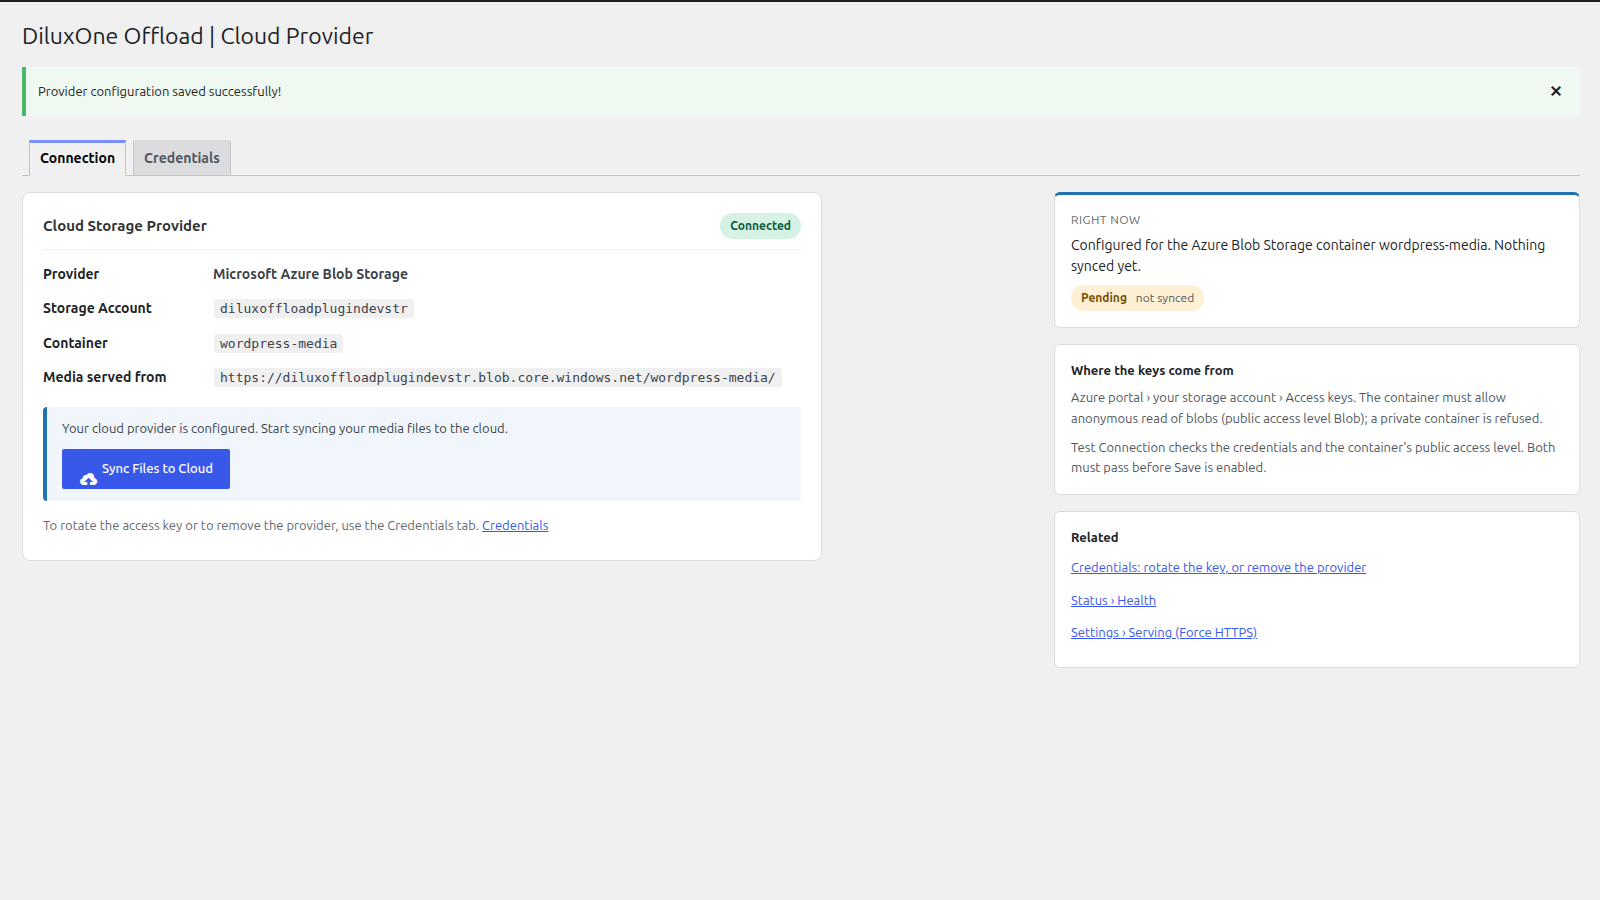
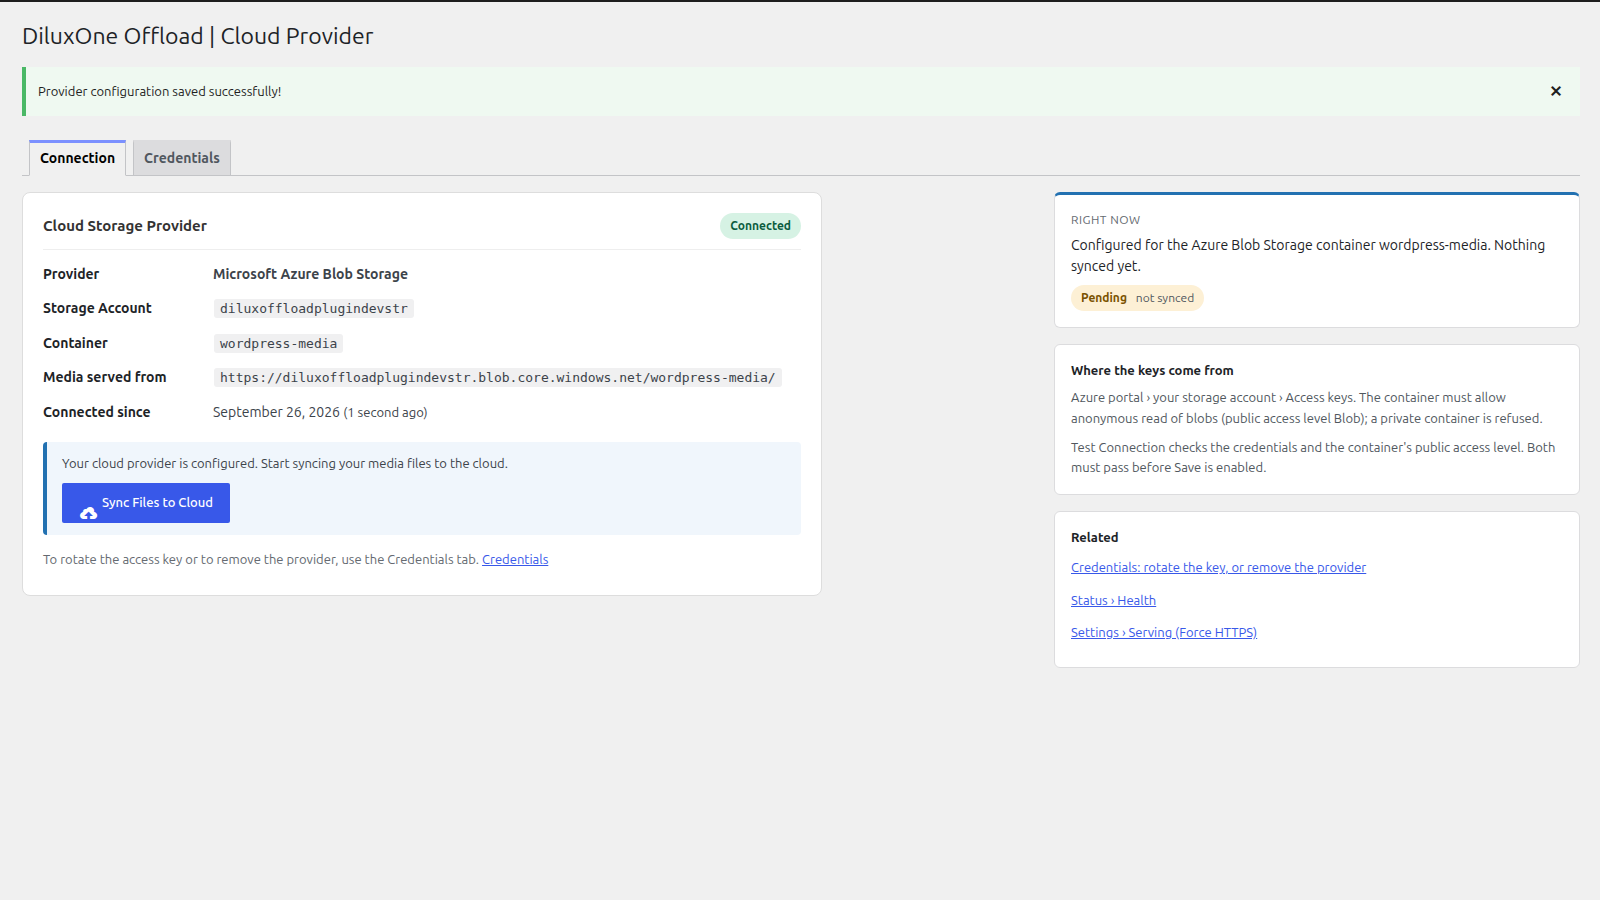
test(admin): the figures, the skipped list, the timestamps and Check now, end to end (#13)
## 📝 What changes

The end-to-end coverage the previous pull request (#12) should have carried: everything the screens now show is driven in a browser, with no cloud account, against a real container on a single site, and against a real container on a network. No product code changes.

- **Mock suite (`tests/E2E/status-health.spec.ts`, new):** with no provider, Status › Health says there is nothing to check and offers no button, and the Sync, Offloading and Disconnect tabs ask for a provider and show no figures. With a provider that cannot be reached (stored through WP-CLI: a storage account that does not exist), **Check now** runs, reports Unhealthy, stamps "just now", counts the failure, and the table agrees after a reload; every screen then carries the banner that says why. `tests/E2E/helpers/wp.ts` puts the site in that state and back.
[…]

Changed region(s): [[0.0312, 0.4356, 0.3438, 0.5911], [0.3125, 0.6222, 0.3438, 0.6533]]

diff --git a/tests/E2E-real/single-site.spec.ts b/tests/E2E-real/single-site.spec.ts
@@ -210,6 +210,41 @@ test.describe.serial( 'single site journey', () => {
 		await expect( page.locator( '#connection-health' ) ).toContainText( /Healthy/ );
 	} );
 
+	test( 'the screens show what is where: the figures, the skipped file, the timestamps, Check now', async ( { page } ) => {
+		const inCloud = ( await listKeys( run, 'uploads/' ) ).length;
+		// Sync: everything synced, every copy still here, nothing uploaded through the site yet.
+		await ui.goTab( page, base, 'sync' );
+		expect( await ui.bignumCount( page, 'Synced' ) ).toBe( inCloud );
+		expect( await ui.bignumCount( page, 'Local copies left' ) ).toBe( inCloud );
+		expect( await ui.bignumCount( page, 'Not on this server' ) ).toBe( 0 );
+		expect( ( await ui.bignum( page, 'Last upload' ) ).value ).toBe( 'none yet' );
+		await expect( page.locator( '.diluxone-offload-bar-head' ) ).toContainText( '100%' );
+		// The empty file is the one thing the scan left out, and the screen says so by name.
+		await expect( page.locator( '.wrap.diluxone-offload-admin' ) ).toContainText( '1 file was left out by the last scan' );
+		const skipped = page.locator( 'details.diluxone-offload-skipped' );
+		await skipped.locator( 'summary' ).click();
+		await expect( skipped ).toContainText( 'Empty files' );
+		await expect( skipped.locator( 'li code' ) ).toHaveText( [ /\/empty-0b\.txt$/ ] );
+		// Offloading: served from the account, every byte still has a copy here, since when.
+		await ui.goTab( page, base, 'offloading' );
+		expect( ( await ui.bignum( page, 'Served from' ) ).value ).toBe( `${ run.account }.blob.core.windows.net` );
+		expect( await ui.bignumCount( page, 'Local copies' ) ).toBe( inCloud );
+		expect( await ui.bignumCount( page, 'Not on this server' ) ).toBe( 0 );
+		expect( ( await ui.bignum( page, 'Offloading since' ) ).value ).not.toBe( '—' );
+		await expect( page.locator( '.diluxone-offload-bar-head' ) ).toContainText( '0% cloud only' );
+		// Disconnect: nothing to bring back yet.
+		await ui.goTab( page, base, 'disconnect' );
+		expect( await ui.bignumCount( page, 'Files to bring back' ) ).toBe( 0 );
+		// Connection: since when.
+		await ui.goTab( page, base, 'connection' );
+		await expect( page.locator( '#provider-info' ) ).toContainText( 'Connected since' );
+		// Health: Check now asks the provider and answers on the spot.
+		await ui.goTab( page, base, 'health' );
+		expect( await ui.checkHealthNow( page ) ).toMatch( /Healthy/ );
+		await expect( page.locator( '#health-last-success' ) ).toHaveText( /just now/ );
+		await expect( page.locator( '#health-failures strong' ) ).toHaveText( '0' );
+	} );
+
 	test( 'a Media Library upload lands in the container with its thumbnails and a public URL', async ( { page } ) => {
 		const source = path.join( FIXTURE_DIR, 'small-300k.png' );
 		const upload = path.join( FIXTURE_DIR, 'ui-upload.png' );
@@ -236,6 +271,16 @@ test.describe.serial( 'single site journey', () => {
 		const front = await http.get( `${ base }/?attachment_id=${ uiUploadId }` );
 		expect( await front.text(), 'the front end links the cloud URL' ).toContain( url );
 		await http.dispose();
+
+		// The Sync tab knows about it without a scan: the upload and its
+		// thumbnails are synced, cloud only, and the last of them is "Last upload".
+		const inCloud = ( await listKeys( run, 'uploads/' ) ).length;
+		await ui.goTab( page, base, 'sync' );
+		expect( await ui.bignumCount( page, 'Synced' ) ).toBe( inCloud );
+		expect( await ui.bignumCount( page, 'Not on this server' ) ).toBe( 1 + sizes.length );
+		const last = await ui.bignum( page, 'Last upload' );
+		expect( last.value ).toMatch( /ago|just now/ );
+		expect( last.detail ).toMatch( /^ui-upload.*\.png · / );
 	} );
 
 	test( 'deleting the local copies frees the disk and the site keeps serving', async ( { page } ) => {
@@ -248,6 +293,18 @@ test.describe.serial( 'single site journey', () => {
 		expect( ( await http.head( attachmentUrl( site, uiUploadId ) ) ).status() ).toBe( 200 );
 		await http.dispose();
 		expect( pluginState( site ) ).toBe( 'offloading_active' );
+
+		// The figures follow: nothing left here, everything cloud only, and
+		// Disconnect says what it would bring back and that the disk can take it.
+		const inCloud = ( await listKeys( run, 'uploads/' ) ).length;
+		await ui.goTab( page, base, 'offloading' );
+		expect( await ui.bignumCount( page, 'Local copies' ) ).toBe( 0 );
+		expect( await ui.bignumCount( page, 'Not on this server' ) ).toBe( inCloud );
+		await expect( page.locator( '.diluxone-offload-bar-head' ) ).toContainText( '100% cloud only' );
+		await ui.goTab( page, base, 'disconnect' );
+		expect( await ui.bignumCount( page, 'Files to bring back' ) ).toBe( inCloud );
+		expect( ( await ui.bignum( page, 'Size to bring back' ) ).value ).not.toMatch( /^0 B$/ );
+		expect( ( await ui.bignum( page, 'Free disk here' ) ).detail ).toBe( 'enough for what is in the cloud' );
 	} );
 
 	test( 'a download can be cancelled and resumed', async ( { page } ) => {
@@ -277,6 +334,10 @@ test.describe.serial( 'single site journey', () => {
 			expect( md5Inside( site, `${ uploadsDir }/${ rel }` ), `${ rel } bytes` ).toBe( await blobMd5( run, key ) );
 		}
 		expect( local.filter( ( f ) => f.endsWith( '.dlxpart' ) ).length ).toBe( 0 );
+		// Every row has its copy back: the Sync tab counts no file as cloud only.
+		expect( await ui.bignumCount( page, 'Synced' ) ).toBe( keys.length );
+		expect( await ui.bignumCount( page, 'Local copies left' ) ).toBe( keys.length );
+		expect( await ui.bignumCount( page, 'Not on this server' ) ).toBe( 0 );
 	} );
 
 	test( 'the access key can be rotated on the Credentials tab', async ( { page } ) => {

diff --git a/tests/E2E/status-health.spec.ts b/tests/E2E/status-health.spec.ts
@@ -1,0 +1,55 @@
+import { test, expect } from '@playwright/test';
+import { configureUnreachableProvider, resetPlugin } from './helpers/wp';
+
+/**
+ * Status › Health and the data screens without a cloud account: what they
+ * say when nothing is connected, and what "Check now" does when the
+ * provider cannot be reached. The success path runs in the real suite.
+ */
+const ADMIN = '/wp-admin/admin.php';
+const HEALTH = `${ ADMIN }?page=diluxone-offload-status&tab=health`;
+
+test.describe( 'Status › Health without a provider', () => {
+	test( 'says there is nothing to check and offers no button', async ( { page } ) => {
+		await page.goto( HEALTH );
+		await expect( page.locator( '#connection-health' ) ).toContainText( 'No provider is connected, so there is no connection to check.' );
+		await expect( page.locator( '#check-health-now' ) ).toHaveCount( 0 );
+	} );
+
+	test( 'the Sync, Offloading and Disconnect tabs ask for a provider first', async ( { page } ) => {
+		for ( const tab of [ 'sync', 'offloading', 'disconnect' ] ) {
+			await page.goto( `${ ADMIN }?page=diluxone-offload-sync&tab=${ tab }` );
+			await expect( page.locator( '.wrap.diluxone-offload-admin' ) ).toContainText( 'Connect a cloud provider in Cloud Provider › Connection first.' );
+			await expect( page.locator( '.diluxone-offload-bignum' ) ).toHaveCount( 0 );
+		}
+	} );
+} );
+
+test.describe.serial( 'Status › Health with a provider that cannot be reached', () => {
+	test.beforeAll( () => configureUnreachableProvider() );
+	test.afterAll( () => resetPlugin() );
+
+	test( 'Check now runs the check, reports Unhealthy and stamps the time', async ( { page } ) => {
+		await page.goto( HEALTH );
+		const button = page.locator( '#check-health-now' );
+		await expect( button ).toBeVisible();
+		await button.click();
+		// The button is disabled while the request runs, then comes back.
+		await expect( button ).toBeEnabled( { timeout: 60_000 } );
+		await expect( page.locator( '#health-status' ) ).toContainText( /Unhealthy/ );
+		await expect( page.locator( '#health-last-check' ) ).toHaveText( /just now/ );
+		await expect( page.locator( '#health-failures strong' ) ).toHaveText( /^[1-9]\d*$/ );
+		// The table on a fresh load agrees with what the button wrote.
+		await page.reload();
+		await expect( page.locator( '#health-status' ) ).toContainText( /Unhealthy/ );
+		await expect( page.locator( '#health-last-check' ) ).toContainText( /ago/ );
+	} );
+
+	test( 'after a failed check every screen carries the banner that says why', async ( { page } ) => {
+		for ( const url of [ `${ ADMIN }?page=diluxone-offload-provider&tab=connection`, `${ ADMIN }?page=diluxone-offload`, `${ ADMIN }?page=diluxone-offload-sync&tab=sync` ] ) {
+			await page.goto( url );
+			const wrap = page.locator( '.wrap.diluxone-offload-admin' );
+			await expect( wrap ).toContainText( 'Cloud Connection Error' );
+		}
+	} );
+} );

diff --git a/tests/E2E-real/multisite.spec.ts b/tests/E2E-real/multisite.spec.ts
@@ -81,6 +81,18 @@ test.describe.serial( 'multisite journey', () => {
 		expect( await ui.refreshStats( page ) ).toBe( keys.filter( ( k ) => ! k.startsWith( 'uploads/sites/' ) ).length );
 		await ui.goTab( page, other, 'overview' );
 		expect( await ui.refreshStats( page ) ).toBe( keys.filter( ( k ) => k.startsWith( `uploads/sites/${ blogId }/` ) ).length );
+
+		// The figures are per site too, and so is the health check.
+		const mainCount = keys.filter( ( k ) => ! k.startsWith( 'uploads/sites/' ) ).length;
+		const otherCount = keys.filter( ( k ) => k.startsWith( `uploads/sites/${ blogId }/` ) ).length;
+		for ( const [ home, count ] of [ [ base, mainCount ], [ other, otherCount ] ] as [ string, number ][] ) {
+			await ui.goTab( page, home, 'sync' );
+			expect( await ui.bignumCount( page, 'Synced' ) ).toBe( count );
+			expect( await ui.bignumCount( page, 'Local copies left' ) ).toBe( count );
+			expect( await ui.bignumCount( page, 'Not on this server' ) ).toBe( 0 );
+			await ui.goTab( page, home, 'health' );
+			expect( await ui.checkHealthNow( page ) ).toMatch( /Healthy/ );
+		}
 	} );
 
 	test( 'a Media Library upload on the other site lands under its prefix', async ( { page } ) => {
@@ -100,6 +112,17 @@ test.describe.serial( 'multisite journey', () => {
 		await ui.deleteLocalFiles( page );
 		expect( filesUnder( site, otherUploads ).length ).toBe( 0 );
 		expect( filesUnder( site, mainUploads ).filter( ( f ) => ! f.startsWith( 'sites/' ) ) ).toEqual( mainOwnBefore );
+		// Each site's figures describe that site only.
+		const otherInCloud = ( await listKeys( run, `uploads/sites/${ blogId }/` ) ).length;
+		expect( await ui.bignumCount( page, 'Local copies' ) ).toBe( 0 );
+		expect( await ui.bignumCount( page, 'Not on this server' ) ).toBe( otherInCloud );
+		await ui.goTab( page, other, 'disconnect' );
+		expect( await ui.bignumCount( page, 'Files to bring back' ) ).toBe( otherInCloud );
+		// The main site's figures count its tracked rows, which are its keys in the container.
+		const mainInCloud = ( await listKeys( run, 'uploads/' ) ).filter( ( k ) => ! k.startsWith( 'uploads/sites/' ) ).length;
+		await ui.goTab( page, base, 'offloading' );
+		expect( await ui.bignumCount( page, 'Local copies' ) ).toBe( mainInCloud );
+		expect( await ui.bignumCount( page, 'Not on this server' ) ).toBe( 0 );
 
 		// And the other way round: Delete Local Files on the main site leaves the other site's directory alone.
 		await ui.goTab( page, other, 'disconnect' );

diff --git a/tests/E2E-real/helpers/plugin.ts b/tests/E2E-real/helpers/plugin.ts
@@ -292,3 +292,31 @@ export async function uploadThroughMediaLibrary( page: Page, base: string, file:
 	const id = await first.getAttribute( 'id' );
 	return Number( ( id ?? '' ).replace( /\D/g, '' ) );
 }
+
+/**
+ * One of the figures a data screen shows (Sync, Offloading, Disconnect): the
+ * value and the line under it, found by the label above it.
+ */
+export async function bignum( page: Page, label: string ): Promise< { value: string; detail: string } > {
+	const card = page.locator( '.diluxone-offload-bignum', { has: page.locator( '.diluxone-offload-bignum__k', { hasText: new RegExp( `^${ label.replace( /[.*+?^${}()|[\]\\]/g, '\\$&' ) }$` ) } ) } );
+	await expect( card, `the "${ label }" figure is on the screen` ).toHaveCount( 1 );
+	return {
+		value: ( await card.locator( '.diluxone-offload-bignum__v' ).innerText() ).trim(),
+		detail: ( await card.locator( '.diluxone-offload-bignum__d' ).innerText().catch( () => '' ) ).trim(),
+	};
+}
+
+/** The number a figure shows, whatever the locale's thousands separator. */
+export async function bignumCount( page: Page, label: string ): Promise< number > {
+	return Number( ( await bignum( page, label ) ).value.replace( /\D/g, '' ) );
+}
+
+/** Status › Health: click "Check now" and wait for the answer; returns the status cell's text. */
+export async function checkHealthNow( page: Page ): Promise< string > {
+	const button = page.locator( '#check-health-now' );
+	await expect( button ).toBeVisible();
+	await button.click();
+	await expect( button ).toBeEnabled( { timeout: 60_000 } );
+	await expect( page.locator( '#health-last-check' ) ).toHaveText( /just now/ );
+	return ( await page.locator( '#health-status' ).innerText() ).trim();
+}

diff --git a/tests/E2E/helpers/wp.ts b/tests/E2E/helpers/wp.ts
@@ -1,0 +1,30 @@
+import { execFileSync } from 'node:child_process';
+
+/**
+ * WP-CLI against the wp-env dev site the mock suite drives. Used only to put
+ * the site in a state the browser cannot reach without a cloud account, and
+ * to put it back.
+ */
+export function wp( args: string[] ): string {
+	const out = execFileSync( 'npx', [ 'wp-env', 'run', 'cli', 'wp', ...args ], {
+		encoding: 'utf8',
+		stdio: [ 'ignore', 'pipe', 'pipe' ],
+		env: { ...process.env, WP_ENV_DEBUG: '' },
+	} );
+	return out.split( '\n' ).filter( ( line ) => ! /^[ℹ✔✖]/.test( line ) ).join( '\n' ).trim();
+}
+
+/**
+ * Store a provider that looks right and cannot be reached: a storage account
+ * that does not exist. Every check against it fails at once, which is what a
+ * test of the failure path wants.
+ */
+export function configureUnreachableProvider(): void {
+	const key = Buffer.from( 'a key of the right shape that opens nothing at all........' ).toString( 'base64' );
+	wp( [ 'eval', `\\DiluxOneOffload\\ConfigManager::save_config( array( 'cloud_provider' => 'azure', 'provider_config' => array( 'storage_account' => 'diluxonee2enosuchaccount', 'access_key' => '${ key }', 'container_name' => 'nowhere' ) ) ); \\DiluxOneOffload\\ConfigManager::set_state( \\DiluxOneOffload\\Enums\\PluginState::CONFIGURED );` ] );
+}
+
+/** Back to an unconfigured plugin, the state every other mock spec expects. */
+export function resetPlugin(): void {
+	wp( [ 'eval', '\\DiluxOneOffload\\ConfigManager::reset();' ] );
+}

diff --git a/docs/plans/2.0.0.md b/docs/plans/2.0.0.md
@@ -454,7 +454,7 @@ Shipped in `feat/admin-data` (2.0.0), as listed here, with two differences: `mod
 
 ### 4.3 Pull requests
 
-Two, before C in 2.13, so the S3 form is born on the new screens. `refactor/admin-screens` (merged first) carries the menu, the screens and tabs, the header convention, the rail, the split templates, the redirects of the old URLs, the Health table read from what the plugin already records, the strings, the suites and the docs; it changes no behaviour of the forms and adds no data. `feat/admin-data` carries A1–A7 and the richer Sync, Offloading, Disconnect and Health figures that need them. The settings the table above marks 2.1.0 (skip list, caching header, alerts) are not in 2.0.0: the Settings screen ships with its three tabs holding today's settings, and the Logging tab is called that until the alerts arrive. The screenshots are retaken with the screens once C lands. Filenames is 4.0.0, a release of its own. The per-service Advanced options ship with C (S3), with the Azure access tier in a small PR of its own (Hot and Cool only: Cold needs `x-ms-version` 2021-12-02 or later and the plugin signs with 2020-04-08; Archive takes the blob offline).
+Two, before C in 2.13, so the S3 form is born on the new screens. `refactor/admin-screens` (merged first) carries the menu, the screens and tabs, the header convention, the rail, the split templates, the redirects of the old URLs, the Health table read from what the plugin already records, the strings, the suites and the docs; it changes no behaviour of the forms and adds no data. `feat/admin-data` carries A1–A7 and the richer Sync, Offloading, Disconnect and Health figures that need them. The settings the table above marks 2.1.0 (skip list, caching header, alerts) are not in 2.0.0: the Settings screen ships with its three tabs holding today's settings, and the Logging tab is called that until the alerts arrive. A third pull request, `test/admin-data-e2e`, gave the figures, the skipped list, the timestamps and Check now their end-to-end coverage (mock, single site and network) and retook the screenshots; they are retaken again once C lands. Filenames is 4.0.0, a release of its own. The per-service Advanced options ship with C (S3), with the Azure access tier in a small PR of its own (Hot and Cool only: Cold needs `x-ms-version` 2021-12-02 or later and the plugin signs with 2020-04-08; Archive takes the blob offline).
 
 Visual rules, so the screens look like the mock-up and not like each other's cousins: cards in a grid of equal columns and rows (`grid-auto-rows: 1fr`), every card with title, value and a detail line; WordPress' own buttons, tabs and `form-table`; destructive actions as ordinary buttons that open a confirmation dialog; no third-party logos anywhere (trademark rules and wordpress.org's review), a neutral glyph per provider family instead.
 

diff --git a/docs/testing-and-quality.md b/docs/testing-and-quality.md
@@ -20,9 +20,11 @@ The pull request checks run from [`.github/workflows/pull-request.yml`](../.gith
 | Claude review | shared `claude-review` workflow | Everything in [`architecture.md`](architecture.md) and the WordPress review profile; rates risk and complexity. Whole change first, then only new pushes; light model for low-risk paths. | after fast | (runs on PR) |
 | Claude replies | shared `review-reply` workflow | Answers a member or collaborator who mentions `@dilux-bot` in a review thread or the conversation, on a pull request from a branch of this repository; resolves its own thread when the problem is fixed or shown not to be one. | on comment | (runs on a mention) |
 | Integration tests | PHPUnit + wp-env (multisite network) | Behaviour against a real WordPress runtime + DB. | slow | `make test-integration` |
-| End-to-end tests | Playwright + wp-env, fake cloud client | Every admin screen driven as a user. | slow | `make test-e2e` |
+| End-to-end tests | Playwright + wp-env, no cloud account | Every admin screen driven as a user: rendering and layout, settings round trips, what the data screens say with no provider, and Status › Health's "Check now" against a provider that cannot be reached. | slow | `make test-e2e` |
 | Real-storage suite | Playwright + PHPUnit against a real Azure account | Every screen and transfer, single site and network, verified byte for byte. | `tests-real-azure.yml` | `make test-real` |
 | JS supply chain | CodeQL (JS) | Common JS vulnerability patterns. | `codeql.yml` | (runs when JS changes) |
+
+A change carries its tests **at every layer it touches**, in the same pull request: a unit test for logic that stands alone, an integration test for behaviour against WordPress and the database, an end-to-end test for what a user sees without a cloud account, a step in the real-storage suite (single site **and** network) for what needs the cloud, and the listing screenshots retaken (`make screenshots`) when a screen changes. A feature that only its integration test has seen is not done.
 
 **Every job above except CodeQL and the Claude replies is a required status check on `main`**, and branch protection applies to administrators too. CodeQL runs only when JavaScript changes (path filter), so it cannot be required; its alerts land in the Security tab. The replies run only when someone mentions the bot, so they are not a check at all.
 

diff --git a/CONTRIBUTING.md b/CONTRIBUTING.md
@@ -11,7 +11,7 @@ Thanks for helping. This page covers issues, pull requests and what CI enforces.
 ## Pull requests
 
 1. Branch from `main`: in your fork if you are an outside contributor, in the repository if you are a maintainer. Name it `<type>/<kebab-case>`, for example `fix/sync-retry-count`.
-2. Make the change with its tests, and update any doc that describes what you changed. A change a user notices adds one bullet to the newest `= X.Y.Z =` entry of `readme.txt`, under its `Unreleased.` line; leave that line alone ([`docs/release.md`](docs/release.md)).
+2. Make the change with its tests at every layer it touches (unit, integration, end-to-end, the real-storage suite on a single site and on a network, and the listing screenshots when a screen changes; see [`docs/testing-and-quality.md`](docs/testing-and-quality.md)), and update any doc that describes what you changed. A change a user notices adds one bullet to the newest `= X.Y.Z =` entry of `readme.txt`, under its `Unreleased.` line; leave that line alone ([`docs/release.md`](docs/release.md)).
 3. Run `make check` (PHPCS, PHPStan, Psalm, unit tests). Integration, end-to-end, i18n and Plugin Check have their own targets; CI runs all of them.
 4. Open the pull request and fill in the template: 📝 What changes and 💡 Why are required, 🧪 How I tested it and 📸 Screenshots help the review. The description becomes the commit body on `main`, word for word, so write it for the person who reads the history in a year: plain words, short paragraphs.
 5. If AI took part, end the description with one line: `🤖 AI-assisted · <model> (<maker>)`. The rules for contributing with AI are in [`docs/ai.md`](docs/ai.md).

diff --git a/AGENTS.md b/AGENTS.md
@@ -46,6 +46,12 @@ make test-integration    # needs make env
 make plugin-check        # wordpress.org's Plugin Check on the built dist
 ```
 
+A change carries its tests at every layer it touches, in the same pull
+request: unit, integration, end-to-end without a cloud account, the
+real-storage suite on a single site and on a network, and the listing
+screenshots (`make screenshots`) when a screen changes
+([`docs/testing-and-quality.md`](docs/testing-and-quality.md)).
+
 Every job that runs on a pull request is a required check on `main`, except
 CodeQL, which only runs when JavaScript changes (`release.yml` runs on
 pushes to `main` and on release tags, never on a pull request). Every pull
